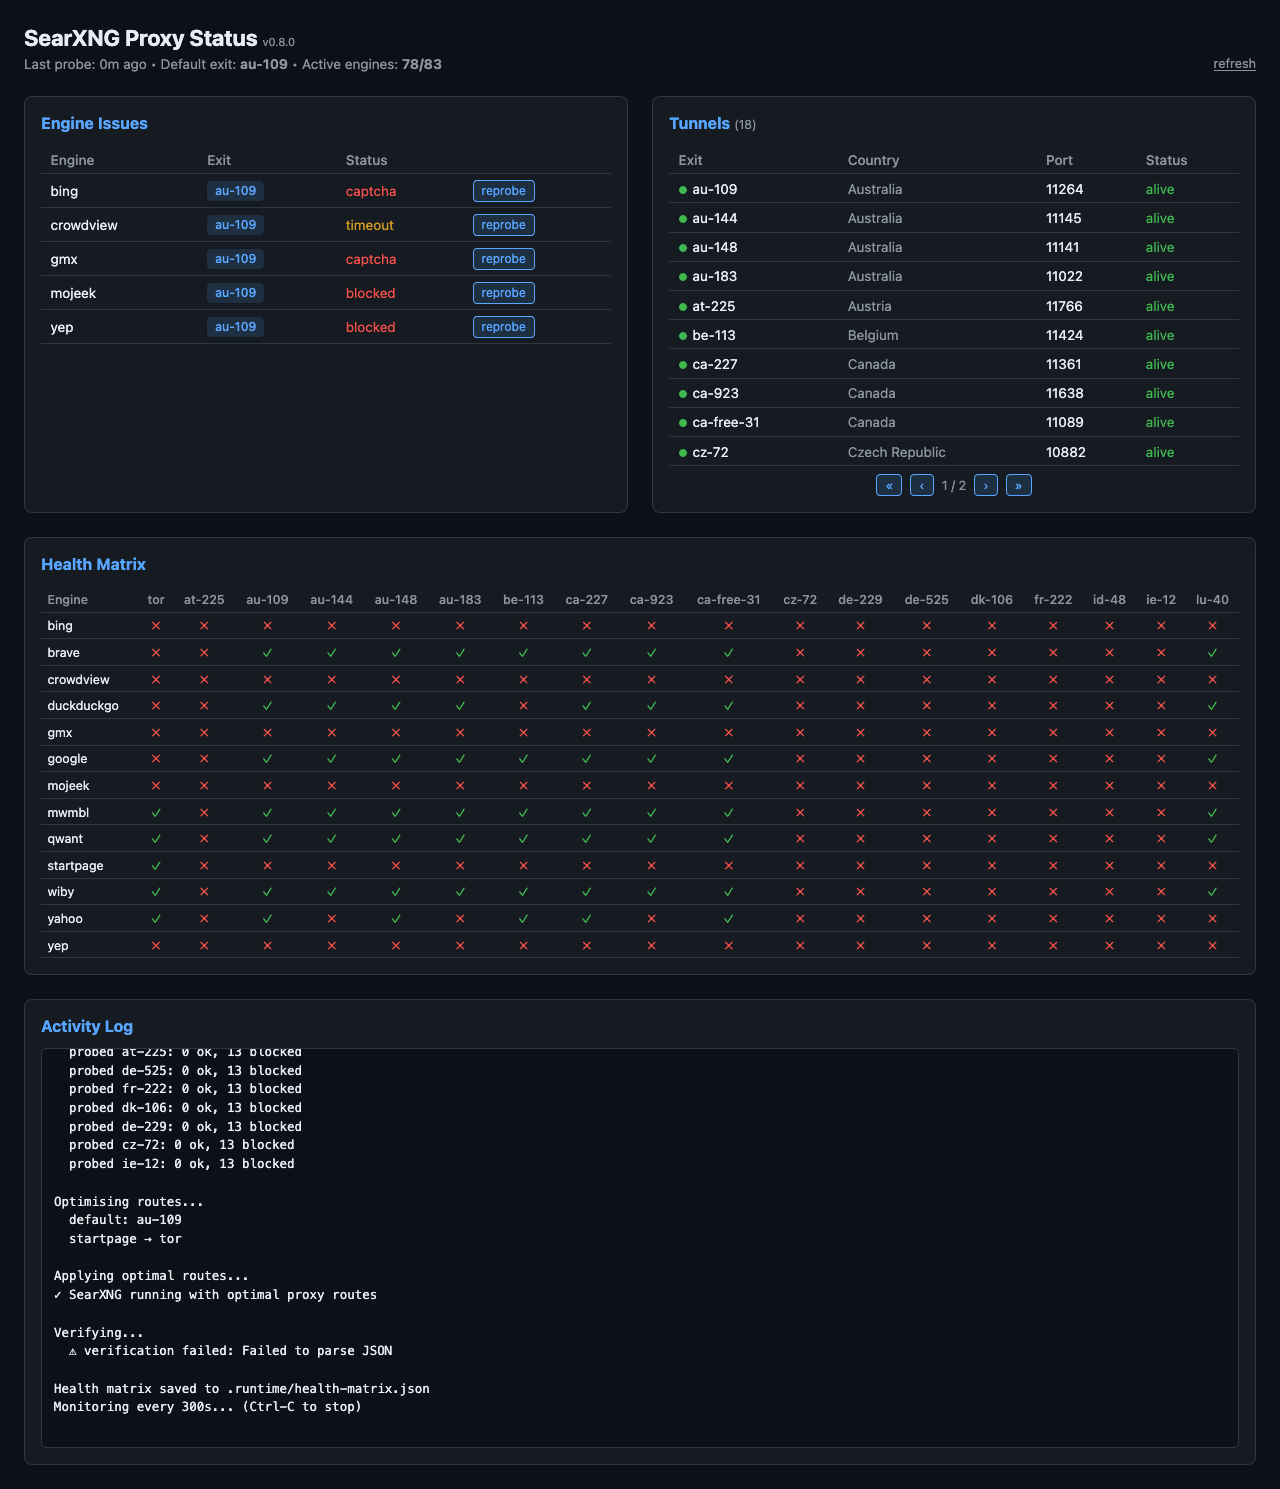
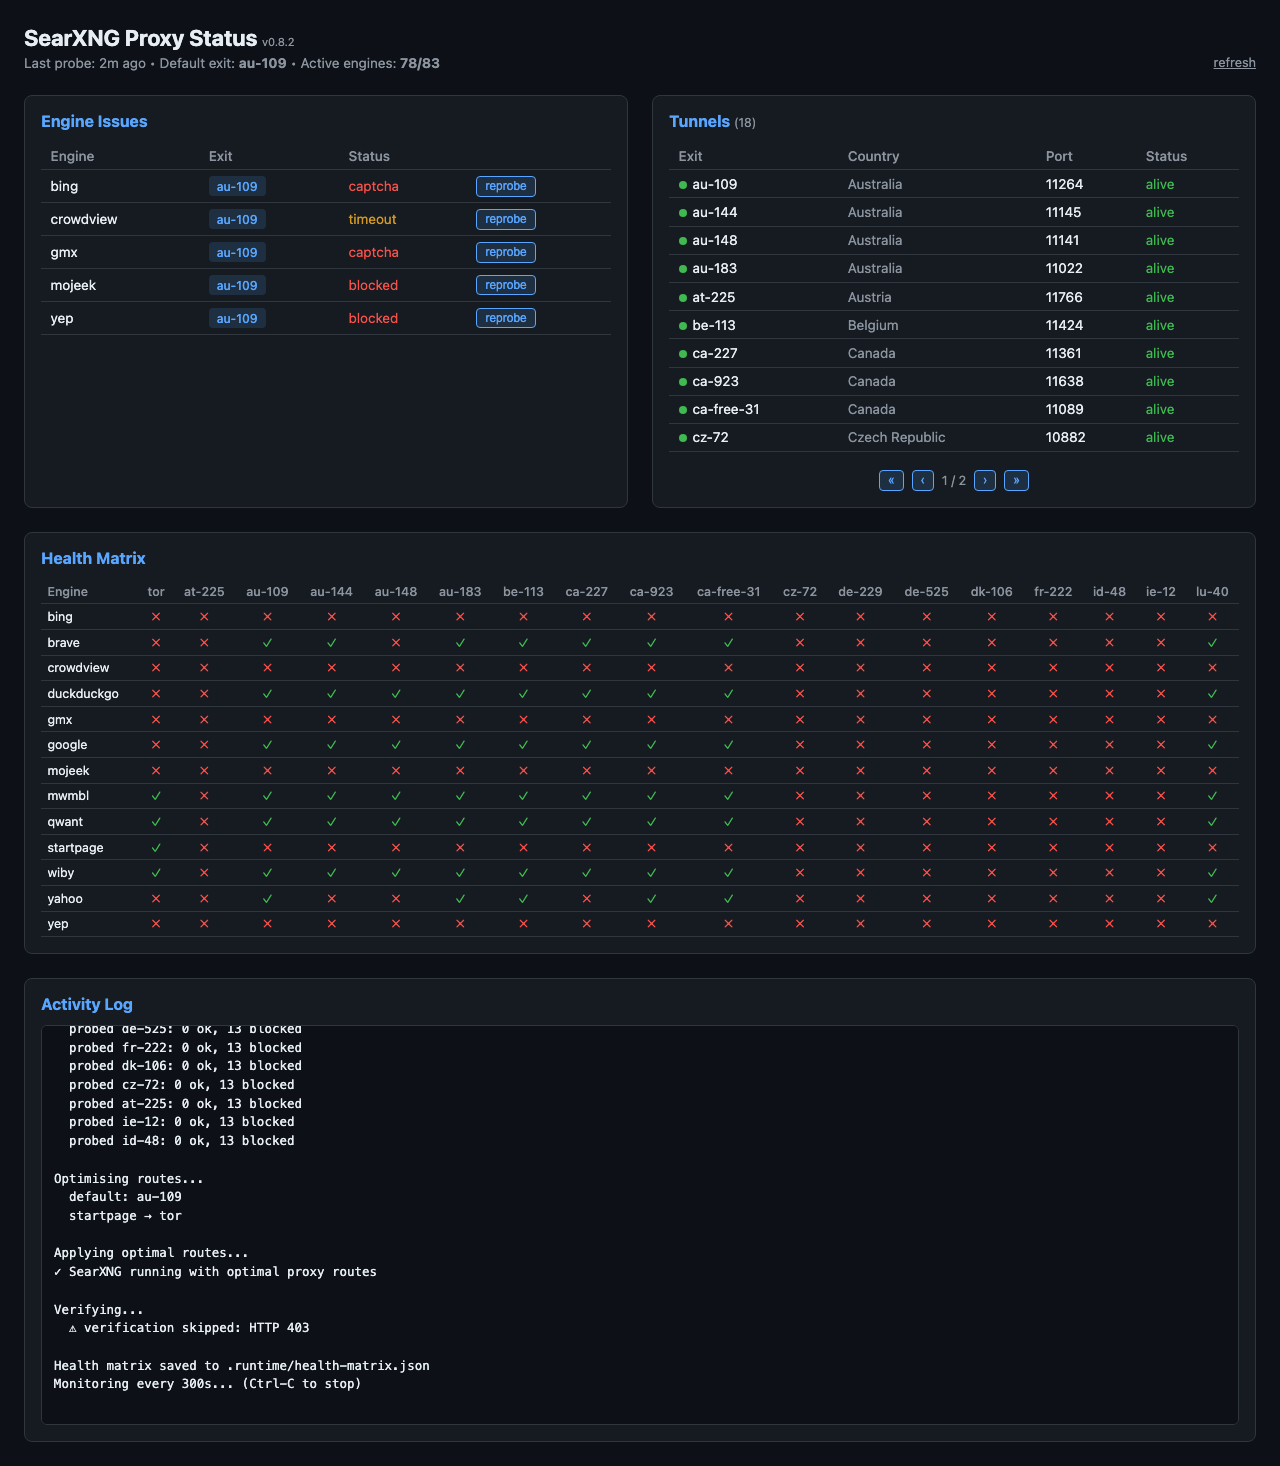
v0.8.3: fix orphaned proxy-manager on restart, add screenshots

diff --git a/proxy-manager.ts b/proxy-manager.ts
@@ -4,7 +4,7 @@ import { readdir, readFile, writeFile, mkdir, unlink } from "node:fs/promises";
 import { join } from "node:path";
 import { execSync } from "node:child_process";
 
-const VERSION = "0.8.2";
+const VERSION = "0.8.3";
 const ROOT = import.meta.dir;
 const VPN_DIR = join(ROOT, "vpn-configs");
 const RUNTIME_DIR = join(ROOT, ".runtime");
@@ -428,7 +428,7 @@ ${engineSection}`;
 const ENGINE_URLS: [string, string][] = [
   ["bing", "https://www.bing.com/search?q=test"],
   ["brave", "https://search.brave.com/search?q=test"],
-  ["crowdview", "https://www.crowdview.ai/?q=test"],
+  ["crowdview", "https://crowdview.ai/?q=test"],
   ["duckduckgo", "https://html.duckduckgo.com/html/?q=test"],
   ["gmx", "https://search.gmx.net/web?q=test"],
   ["google", "https://www.google.com/search?q=test"],
@@ -605,7 +605,10 @@ async function initialProbeAndRoute(activeExits: Exit[]) {
       console.log("  ✓ Routes corrected");
     }
   } catch (err: unknown) {
-    console.log(`  ⚠ verification skipped: ${err instanceof Error ? err.message : err}`);
+    const msg = err instanceof Error ? err.message : String(err);
+    console.log(`  ⚠ verification skipped: ${msg}`);
+    if (msg.includes("403"))
+      console.log("    SearXNG rate limiter blocked the verification query; routes are applied but unverified this cycle");
   }
 
   const matrix: HealthMatrix = {

diff --git a/CHANGELOG.md b/CHANGELOG.md
@@ -1,5 +1,12 @@
 # Changelog
 
+## [0.8.3] - 2026-09-06
+
+- **Fix:** `stop` now kills orphaned proxy-manager processes not tracked by the pidfile (previously `restart` left the old process running)
+- **Fix:** Crowdview probe URL corrected from `www.crowdview.ai` to `crowdview.ai` (the `www` subdomain has no DNS record, causing 100% timeout on every exit)
+- Improve 403 verification-skip message to explain SearXNG rate limiter is the cause
+- Add screenshots to README (search interface and proxy status dashboard)
+
 ## [0.8.2] - 2026-09-06
 
 - Add `restart` command to setup.sh (stop + start in one step)

diff --git a/README.md b/README.md
@@ -7,6 +7,10 @@ Run [SearXNG](https://searxng.org) locally using Apple's native [container](http
 
 SearXNG is a privacy-respecting metasearch engine that aggregates results from 70+ search engines without tracking you. Many engines block requests from known VPN and Tor IP ranges. The bundled proxy manager automatically routes each engine through whichever exit isn't blocking it, monitors for changes, and re-routes on the fly.
 
+![SearXNG search interface](screenshots/search.png)
+
+![Proxy status dashboard](screenshots/dashboard.png)
+
 ## Prerequisites
 
 ### macOS (Apple Silicon)
